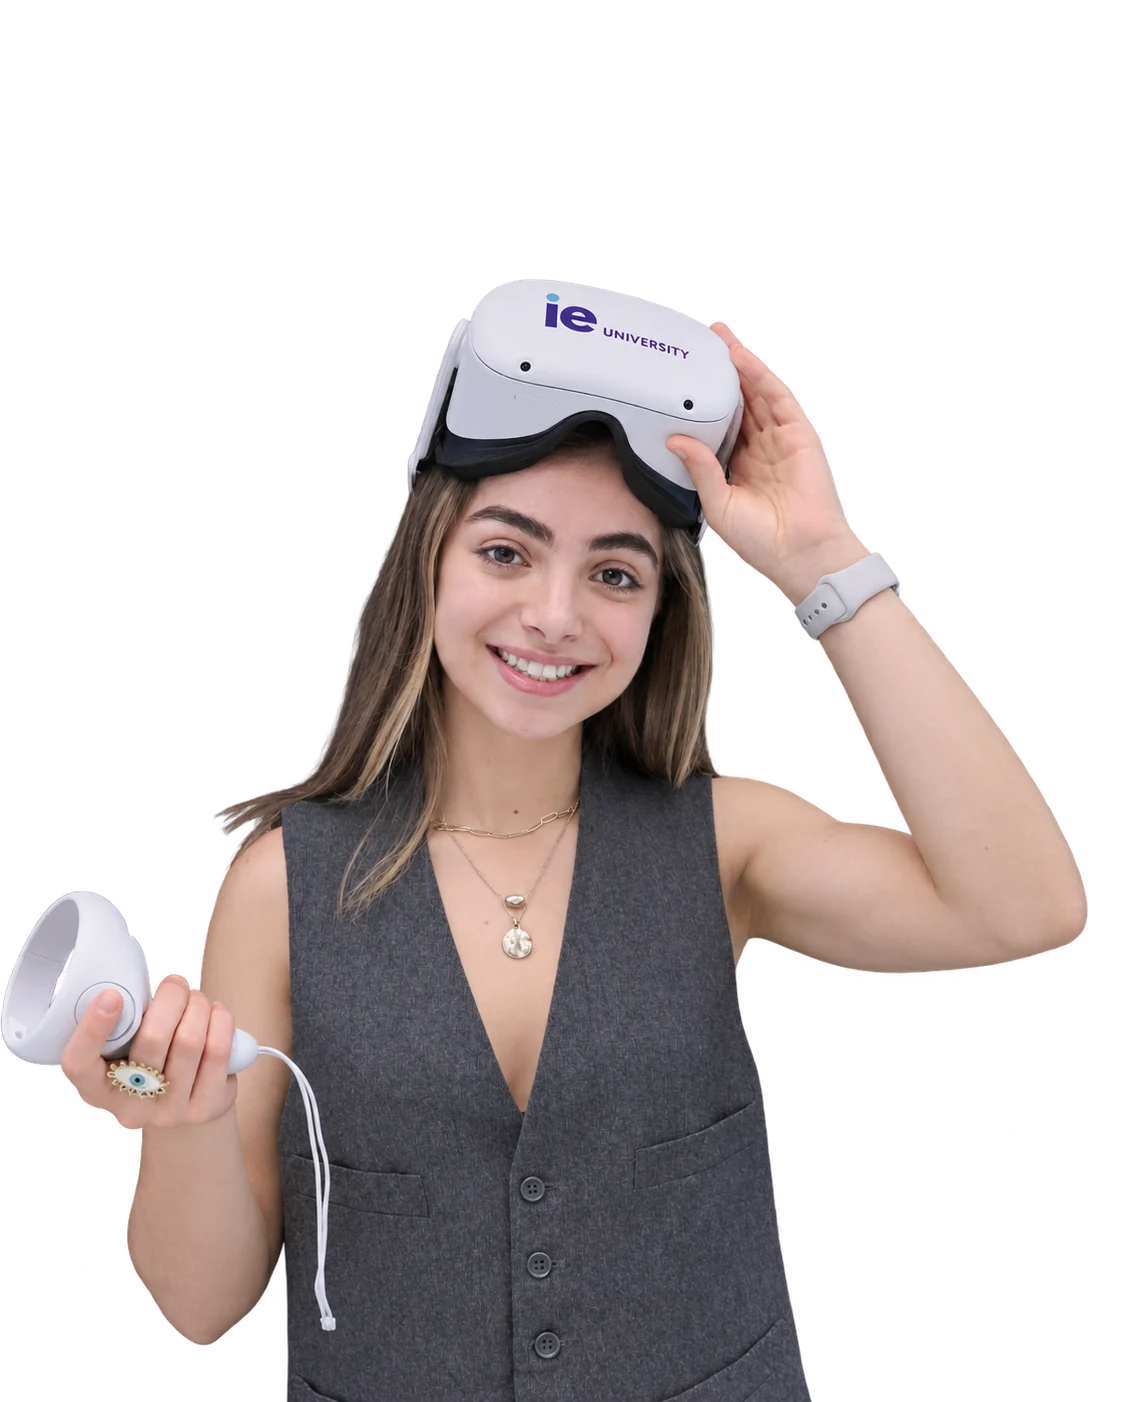
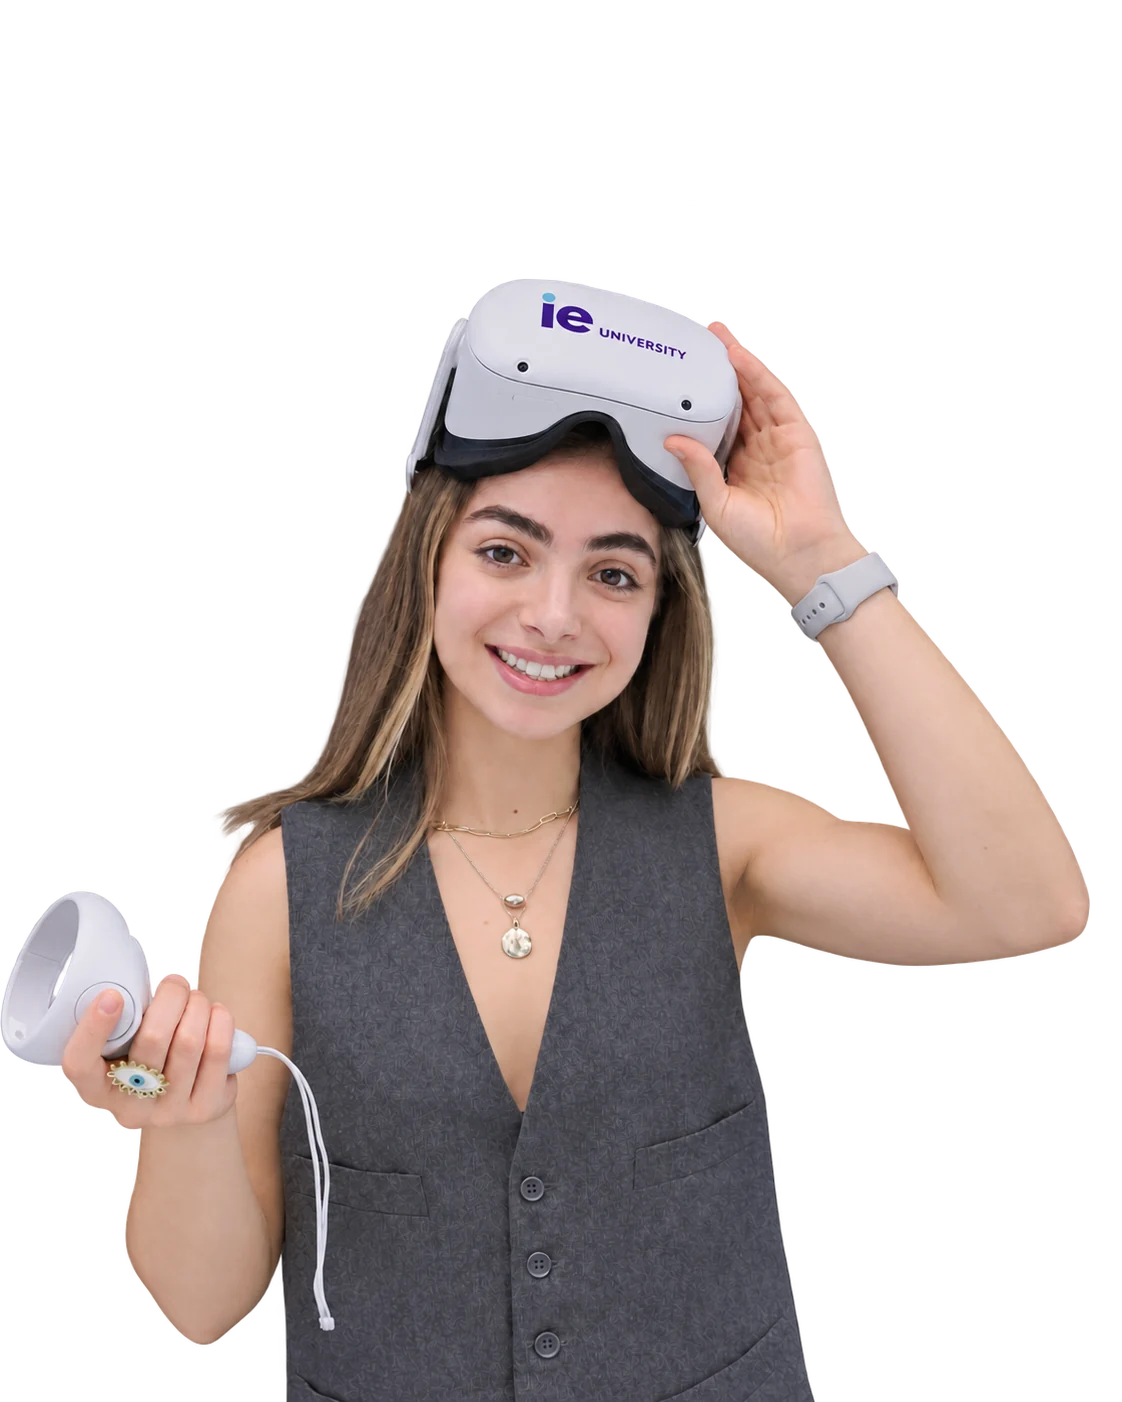
Unify hero cloud contours and update portfolio controls and portraits

diff --git a/index.html b/index.html
@@ -36,11 +36,17 @@ html.w-mod-js body[data-home-shell]:not(.edge-ready) .gl-wrap {
 <!-- Gold --> 
 
 <script>
-  // The CSS hero draws the single contour field. Keep the WebGL portrait
-  // and cursor clouds, but neutralize its duplicate one-pixel outline pass.
+  // Derive contours and the cursor cloud from the renderer's one noise field.
+  // The shader composites the portrait and helmet after those background passes.
   function configureHeroContours() {
     const head = window.edgeGL?.params?.headScene;
-    if (head) head.THICKNESS = 0;
+    if (!head) return;
+    head.OUTLINE = true;
+    head.THICKNESS = 0.000005;
+    head.COLOR_OUTLINE = '#b7cef6';
+    head.COLOR_CURSOR_OUTLINE = '#9fbdf1';
+    head.COLOR_CURSOR_BACKGROUND = '#c4d9fb';
+    head.COLOR_CURSOR_FOREGROUND = '#edf4ff';
   }
   document.addEventListener('DOMContentLoaded', configureHeroContours, {once:true});
   window.addEventListener('load', configureHeroContours, {once:true});
@@ -79,6 +85,11 @@ _iub.csConfiguration = {"lang":"en","preferenceCookie":{"expireAfter":180},"site
 </style><link href="./custom/custom.css?v=20260911k" rel="stylesheet"/><link href="https://fonts.googleapis.com/css2?family=Permanent+Marker&display=swap" rel="stylesheet"/><link rel="preload" href="gl/fonts/Brier-Bold-02.webp" as="image"/><link rel="preload" href="gl/fonts/MonaSans-Bold-02.webp" as="image"/><link rel="preload" href="gl/fonts/Brier-Bold-msdf.json" as="fetch" crossorigin="anonymous"/><link rel="preload" href="gl/fonts/MonaSans-Bold-msdf.json" as="fetch" crossorigin="anonymous"/><link rel="preload" href="gl/textures/head/webp/diffuse.webp" as="image"/><link rel="preload" href="gl/textures/head/webp/depth.webp" as="image"/><link rel="preload" href="gl/textures/helmet/webp/gold/Helmet_mat_BaseColor.webp" as="image"/><link rel="preload" href="gl/hdri/studio_small_08_1k--dark.hdr" as="fetch" crossorigin="anonymous"/><link rel="stylesheet" href="ui/tokens.css?v=20260911k"/><link rel="stylesheet" href="ui/base.css?v=20260911k"/><link rel="stylesheet" href="ui/layout.css?v=20261120-centered"/><link rel="stylesheet" href="ui/ui.css?v=20260911k"/><link rel="stylesheet" href="custom/clean-shell.css?v=20261014-menu-startup"/><link rel="canonical" href="https://andreamontana.com/"/><script type="application/ld+json">{"@context":"https://schema.org","@type":"Person","name":"Andrea Montaña","url":"https://andreamontana.com/","sameAs":["https://github.com/andreaisabelmontana","https://www.linkedin.com/in/andreaimontana/"],"jobTitle":["Research Assistant"],"affiliation":[{"@type":"Organization","name":"IEX Labs, CyPhy Life at IE University"}],"knowsAbout":["Artificial intelligence","Machine learning","Computer vision","Human-computer interaction","Robotics","Python","JavaScript","TypeScript","Interactive 3D","Full-stack development"]}</script><link rel="stylesheet" href="custom/theme.css?v=20261121-contour-motion"/>
 <link rel="stylesheet" href="custom/affiliations.css?v=20261119-seamless"/>
 <style id="home-showcase-navy">
+  /* The static portrait uses the CSS backdrop; live WebGL owns its own
+     contour field, already behind the portrait in the shader. */
+  html[data-theme] body.edge-ready[data-home-shell]:not(.home-render-fallback):has(.gl-wrap canvas.gl) .edge-ui::before {
+    display: none;
+  }
   /* Google Chromium baseline primary 10; the hero and cards keep their own surfaces. */
   @media (min-width: 1024px) {
     /* Feather the cloud renderer's top seam without moving the helmet or
@@ -469,7 +480,7 @@ document.addEventListener('DOMContentLoaded', function () {
               <svg width="15" height="15" viewBox="0 0 24 24" fill="none" stroke="currentColor" stroke-width="2.2"><path d="M5 12h14M13 6l6 6-6 6"/></svg>
             </span>
           </div>
-          <img class="otot-card-img" src="custom/projects-portrait-neutral.webp" alt="" loading="lazy">
+          <img class="otot-card-img" src="custom/projects-portrait-neutral.webp?v=20261121-arm" alt="" loading="lazy">
         </a>
 
         <!-- Experience keeps its own route and complete toolkit. -->
@@ -481,7 +492,7 @@ document.addEventListener('DOMContentLoaded', function () {
               <svg width="15" height="15" viewBox="0 0 24 24" fill="none" stroke="currentColor" stroke-width="2.2"><path d="M5 12h14M13 6l6 6-6 6"/></svg>
             </span>
           </div>
-          <img class="otot-card-img" src="custom/experience-portrait-neutral.webp" alt="" loading="lazy">
+          <img class="otot-card-img" src="custom/experience-portrait-neutral.webp?v=20261121-arm" alt="" loading="lazy">
         </a>
 
       </div>

diff --git a/contact/index.html b/contact/index.html
@@ -58,7 +58,7 @@ _iub.csConfiguration = {"lang":"en","preferenceCookie":{"expireAfter":180},"site
   .transition-w {	display: flex; }
 </style><link href="../custom/custom.css?v=20260911k" rel="stylesheet"/><link rel="canonical" href="https://andreamontana.com/contact/"/><script type="application/ld+json">{"@context":"https://schema.org","@type":"Person","name":"Andrea Montaña","url":"https://andreamontana.com/","sameAs":["https://github.com/andreaisabelmontana","https://www.linkedin.com/in/andreaimontana/"],"jobTitle":["Research Assistant"],"affiliation":[{"@type":"Organization","name":"IEX Labs, CyPhy Life at IE University"}],"knowsAbout":["Artificial intelligence","Machine learning","Computer vision","Human-computer interaction","Robotics","Python","JavaScript","TypeScript","Interactive 3D","Full-stack development"]}</script><link rel="stylesheet" href="../custom/clean-shell.css?v=20261014-menu-startup"><link rel="stylesheet" href="../custom/contact-clean.css?v=20261120-contact-alignment"><link rel="stylesheet" href="../custom/theme.css?v=20261121-contour-motion"/>
 <link rel="stylesheet" href="../custom/affiliations.css?v=20261119-links"/><link rel="stylesheet" href="../custom/contact-satellite.css?v=20261120-enlarged"/><script defer src="../custom/contact-satellite.js?v=20261119-orbit"></script><link rel="stylesheet" href="../custom/contact-photo-fan.css?v=1">
-<link rel="stylesheet" href="../custom/nav-islands.css?v=20261121-blue-language">
+<link rel="stylesheet" href="../custom/nav-islands.css?v=20261121-single-menu-frame">
 </head><body class="clean-portfolio contact-page" data-edit="true"><div class="css-main"><div class="css-root w-embed"><style>
 
   :root {

diff --git a/online/index.html b/online/index.html
@@ -119,7 +119,7 @@ _iub.csConfiguration = {"lang":"en","preferenceCookie":{"expireAfter":180},"site
 <link rel="stylesheet" href="../custom/affiliations.css?v=20261119-links"/><link rel="stylesheet" href="../custom/notecrafted.css?v=20261106-portfolio-review">
 <style id="project-artwork-style">.project-artwork .project-card-visual{background:#ece8ee}.project-artwork .project-card-visual img{object-fit:contain}.project-artwork:hover .project-card-visual img{transform:none}.project-artwork .project-card-meta{margin-top:14px}</style>
 <link rel="stylesheet" href="../custom/edolus-type.css?v=20261120-layout2"/>
-<link rel="stylesheet" href="../custom/nav-islands.css?v=20261121-portfolio-balanced">
+<link rel="stylesheet" href="../custom/nav-islands.css?v=20261121-single-menu-frame">
 </head><body data-edit="true" class="clean-portfolio projects-page"><div class="css-main"><div class="css-root w-embed"><style>
 
 

diff --git a/experience/index.html b/experience/index.html
@@ -82,7 +82,7 @@ _iub.csConfiguration = {"lang":"en","preferenceCookie":{"expireAfter":180},"site
 </style>
 
 <link rel="stylesheet" href="../custom/affiliations.css?v=20261119-links"/><link rel="stylesheet" href="../custom/edolus-type.css?v=20261120-layout2"/>
-<link rel="stylesheet" href="../custom/nav-islands.css?v=20261121-blue-language">
+<link rel="stylesheet" href="../custom/nav-islands.css?v=20261121-single-menu-frame">
 </head><body data-edit="true" class="clean-portfolio experience-page"><div class="css-main"><div class="css-root w-embed"><style>
 
   :root {
